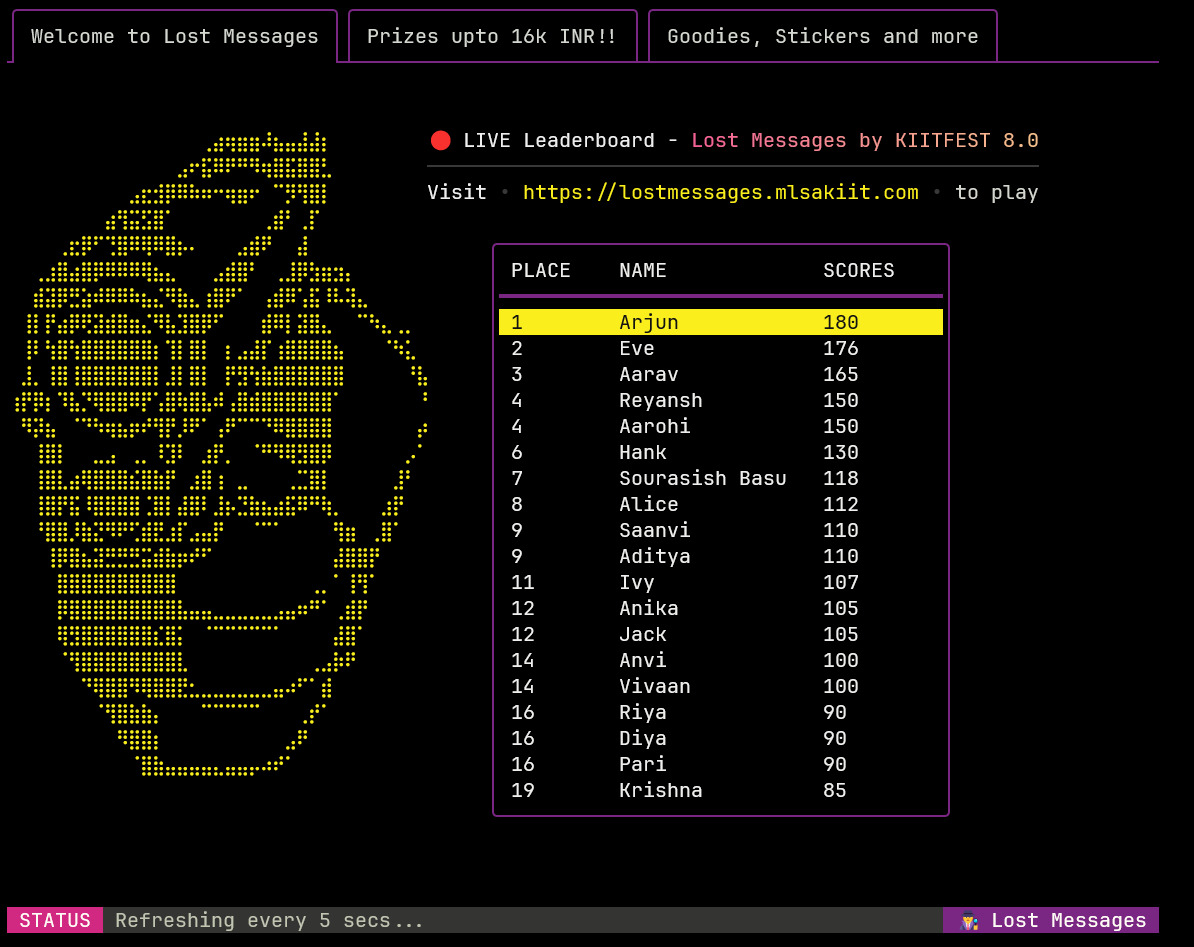
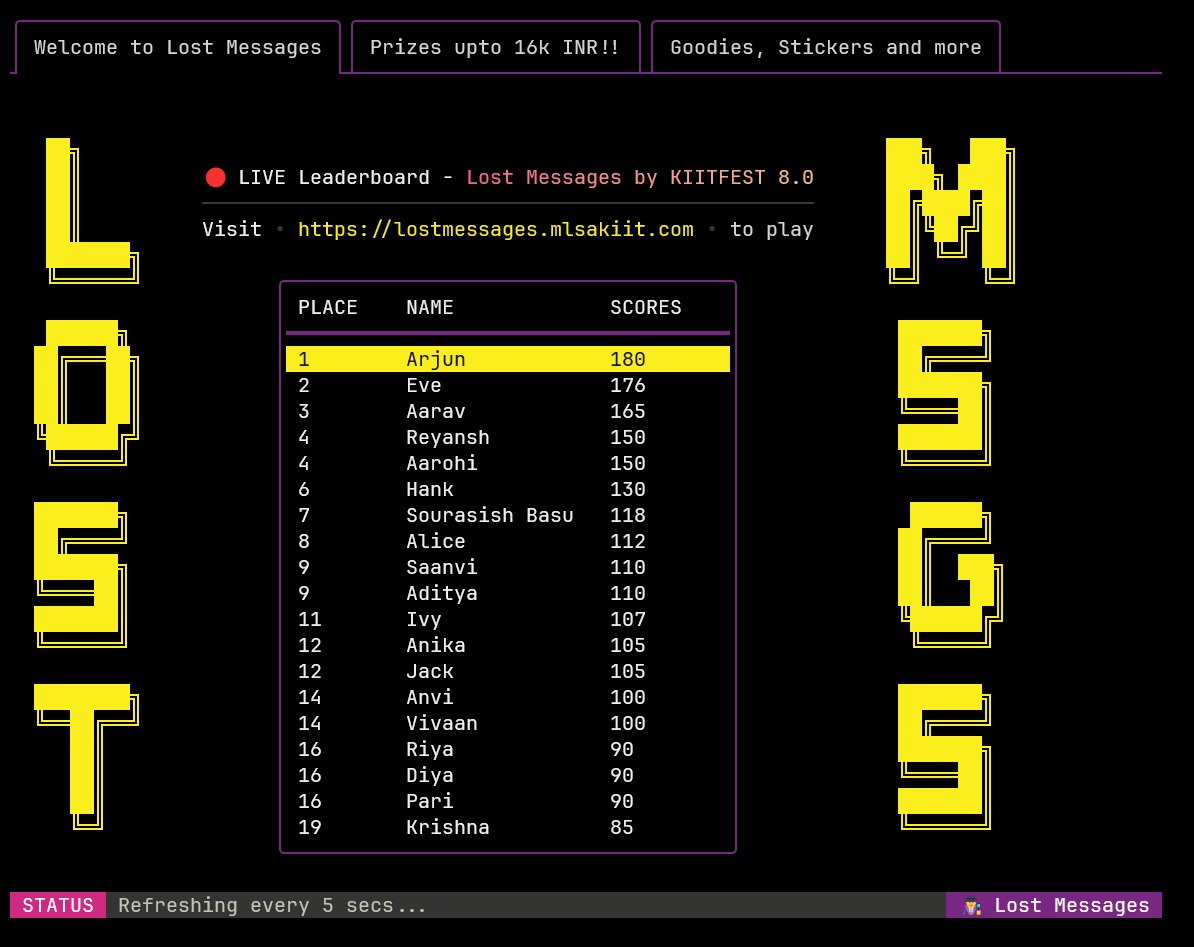
feat: changed ascii art and layout

diff --git a/cmd/ssh-leaderboard/ssh-leaderboard.go b/cmd/ssh-leaderboard/ssh-leaderboard.go
@@ -129,7 +129,6 @@ var (
 var baseStyle = lipgloss.NewStyle().
 	BorderStyle(lipgloss.RoundedBorder()).
 	BorderForeground(highlight).
-	Margin(0, 7).
 	Bold(true)
 
 const (
@@ -137,32 +136,65 @@ const (
 	port = "23234"
 )
 
-const asciiArt = `
-                ⢀⣴⢶⣶⣶⠼⣦⣤⣼⣼⡆        
-              ⣠⠖⣯⠿⠟⠛⠻⢶⣿⣯⣿⣿⣃        
-          ⣠⣖⣺⡿⠿⠷⠶⠒⢶⣶⠖ ⠉⡻⢻⣿⡇        
-        ⣴⢻⣭⣫⣿⠁       ⢀⣾⠃⢀⡏         
-    ⢀⣖⡿⠋⢙⣿⠿⢿⠿⣿⡦⠄   ⣠⣾⠟  ⣼          
-  ⢀⣰⣿⣴⣿⡿⠿⠿⠿⢿⣦⣄   ⣠⣾⣿⠃ ⢀⣸⡿⣳⣶⣲⡄      
-  ⣾⣽⡿⣛⣵⠾⠿⠿⠷⣦⣌⠻⣷⣄⢰⣿⠟⠁ ⢠⣾⠿⢡⣯⠸⠧⢽⣄     
- ⢸⡇⡟⣴⡿⢟⣽⣾⣿⣶⣌⠻⣧⣹⣿⡿⠋   ⣾⠿⡇⣽⣿⣄  ⠉⠳⣄⢀⡀ 
- ⢸⠇⢳⣿⢳⣿⣿⣿⣿⣿⣿⡆⢹⡇⣿⡇ ⡆⣠⣼⡏⢰⣿⣿⣿⣿⣦   ⠈⠳⣅ 
- ⣸⡀⢸⣿⢸⣿⣿⣿⣿⣿⣿⡇⣸⡇⣿⡇ ⡟⣻⢳⣷⣿⣿⣿⣿⣿⣿     ⠘⣧
-⢰⡟⡿⡆⠹⣧⡙⢿⣿⣿⠿⡟⢡⣿⢷⣿⣧⠾⢠⣿⣾⣿⣿⣿⣿⣿⣿⠁      ⠘
- ⠻⡽⣦ ⠈⠙⠳⢶⣦⡶⠞⢻⡟⡸⠟⠁⢠⠟⠉⠉⠙⠿⣿⣿⣿⣿       ⡴
-  ⢸⣿⡇  ⣀⣠ ⢀⡀⠸⣹⠇ ⣰⡟⡀ ⠈⠛⠻⢿⣻⣿⡿      ⡠⠁
-  ⢸⣿⣇⣴⢿⣿⣿⣿⣮⣿⣷⡟ ⣰⣿⢰ ⣀   ⢀⣉⣿⡇     ⣸⠃ 
-  ⢸⣿⡟⣯⠸⣿⣿⣿⣿⢈⣿⡇⣼⣿⠇⣸⡦⣙⣷⣦⣴⣯⠿⠛⢷⡀   ⣰⡟  
-  ⠘⣿⣿⡸⣷⣝⠻⠟⢋⣾⣟⣰⡏⣠⣤⡟  ⠈⠉⠁    ⢻⣶ ⢀⣿⠁  
-   ⢸⡿⣿⣦⣽⣛⣛⣛⣭⣾⣷⡶⠞⠋          ⣼⣿⣿⡟    
-    ⣿⣿⣿⣿⣿⣿⣿⣿⣿⣿           ⢀⡀⠁⢸⢻⠁    
-    ⡿⣿⣿⣿⣿⣿⣿⣿⣿⣿⣧⣤⣤⣀⣀⣀⣀⣀⣠⣤⠶⠛⠁⢀⣾⡟     
-    ⢿⣻⣿⣿⣿⣿⣿⣿⣎⣿⡅ ⠈⠉⠉⠉⠉⠉⠁    ⣼⣿⠁     
-    ⠈⢻⣿⣿⣿⣿⣿⣿⣿⣿⣇          ⢀⣠⡷⠟      
-      ⠙⢿⣿⣿⠻⢿⣿⣿⣟⣂⣀⣀⣀⣀⣀⣀⣤⠴⠋⠁⣾        
-       ⠈⢻⣿⣷⣷⡄   ⠉⠉⠉⠉⠉   ⢀⡞⠁        
-         ⠻⣿⣿⡆          ⣠⠟          
-          ⠈⣿⣷⣤⣤⣤⣤⣄⣤⣤⡤⠴⠞⠁           `
+const asciiArtLeft = `
+   ██╗     
+   ██║     
+   ██║     
+   ██║     
+   ███████╗
+   ╚══════╝
+
+   ██████╗
+  ██╔═══██╗
+  ██║   ██║
+  ██║   ██║
+  ╚██████╔╝
+   ╚═════╝ 
+
+  ███████╗
+  ██╔════╝
+  ███████╗
+  ╚════██║
+  ███████║
+  ╚══════╝
+
+  ████████╗
+  ╚══██╔══╝
+     ██║   
+     ██║   
+     ██║   
+     ╚═╝        
+`
+
+const asciiArtRight = `
+  ███╗   ███╗     
+  ████╗ ████║     
+  ██╔████╔██║     
+  ██║╚██╔╝██║     
+  ██║ ╚═╝ ██║
+  ╚═╝     ╚═╝
+                       
+   ███████╗   
+   ██╔════╝  
+   ███████╗  
+   ╚════██║  
+   ███████║  
+   ╚══════╝   
+                    
+    ██████╗   
+   ██╔════╝   
+   ██║  ███╗  
+   ██║   ██║  
+   ╚██████╔╝  
+    ╚═════╝   
+                    
+   ███████╗  
+   ██╔════╝  
+   ███████╗     
+   ╚════██║     
+   ███████║     
+   ╚══════╝     
+`
 
 type model struct {
 	table table.Model
@@ -319,8 +351,6 @@ func (m model) Update(msg tea.Msg) (tea.Model, tea.Cmd) {
 			m.table.Blur()
 		case "q", "ctrl+c":
 			return m, tea.Quit
-		case "enter":
-			return m, tea.Printf("%s is ranked %s", m.table.SelectedRow()[1], m.table.SelectedRow()[0])
 		}
 	}
 	m.table, cmd = m.table.Update(msg)
@@ -345,30 +375,24 @@ func (m model) View() string {
 		doc.WriteString(row + "\n\n")
 	}
 
-	// Title
 	{
+		// Title
 
 		artStyle := lipgloss.NewStyle().
 			Foreground(special)
 
-			//doc.WriteString(artStyle.Render(asciiArt) + "\n")
-
-		desc := lipgloss.JoinVertical(lipgloss.Left,
+		desc := lipgloss.JoinVertical(lipgloss.Center,
 			descStyle.Render("🔴 LIVE Leaderboard - "+rainbow(lipgloss.NewStyle(), "Lost Messages by KIITFEST 8.0", blends)),
 			infoStyle.Render("Visit"+divider+heading("https://lostmessages.mlsakiit.com")+divider+"to play"),
 		)
 
-		//row := lipgloss.JoinHorizontal(lipgloss.Top, artStyle.Render(asciiArt), desc)
-		//doc.WriteString(row + "\n")
-
 		// Table
 
 		m.table.SetRows(m.rows)
-		t := lipgloss.JoinVertical(lipgloss.Left, desc+"\n", baseStyle.Render(m.table.View())+"\n\n")
-		row := lipgloss.JoinHorizontal(lipgloss.Top, artStyle.Render(asciiArt), t)
+		t := lipgloss.JoinVertical(lipgloss.Center, desc+"\n", baseStyle.Render(m.table.View()))
+		centerSection := lipgloss.NewStyle().MarginRight(4).Render(t)
+		row := lipgloss.JoinHorizontal(lipgloss.Center, artStyle.Render(asciiArtLeft), centerSection, artStyle.Render(asciiArtRight))
 		doc.WriteString(row + "\n\n")
-
-		//doc.WriteString(baseStyle.Render(m.table.View()) + "\n\n")
 
 	}
 
